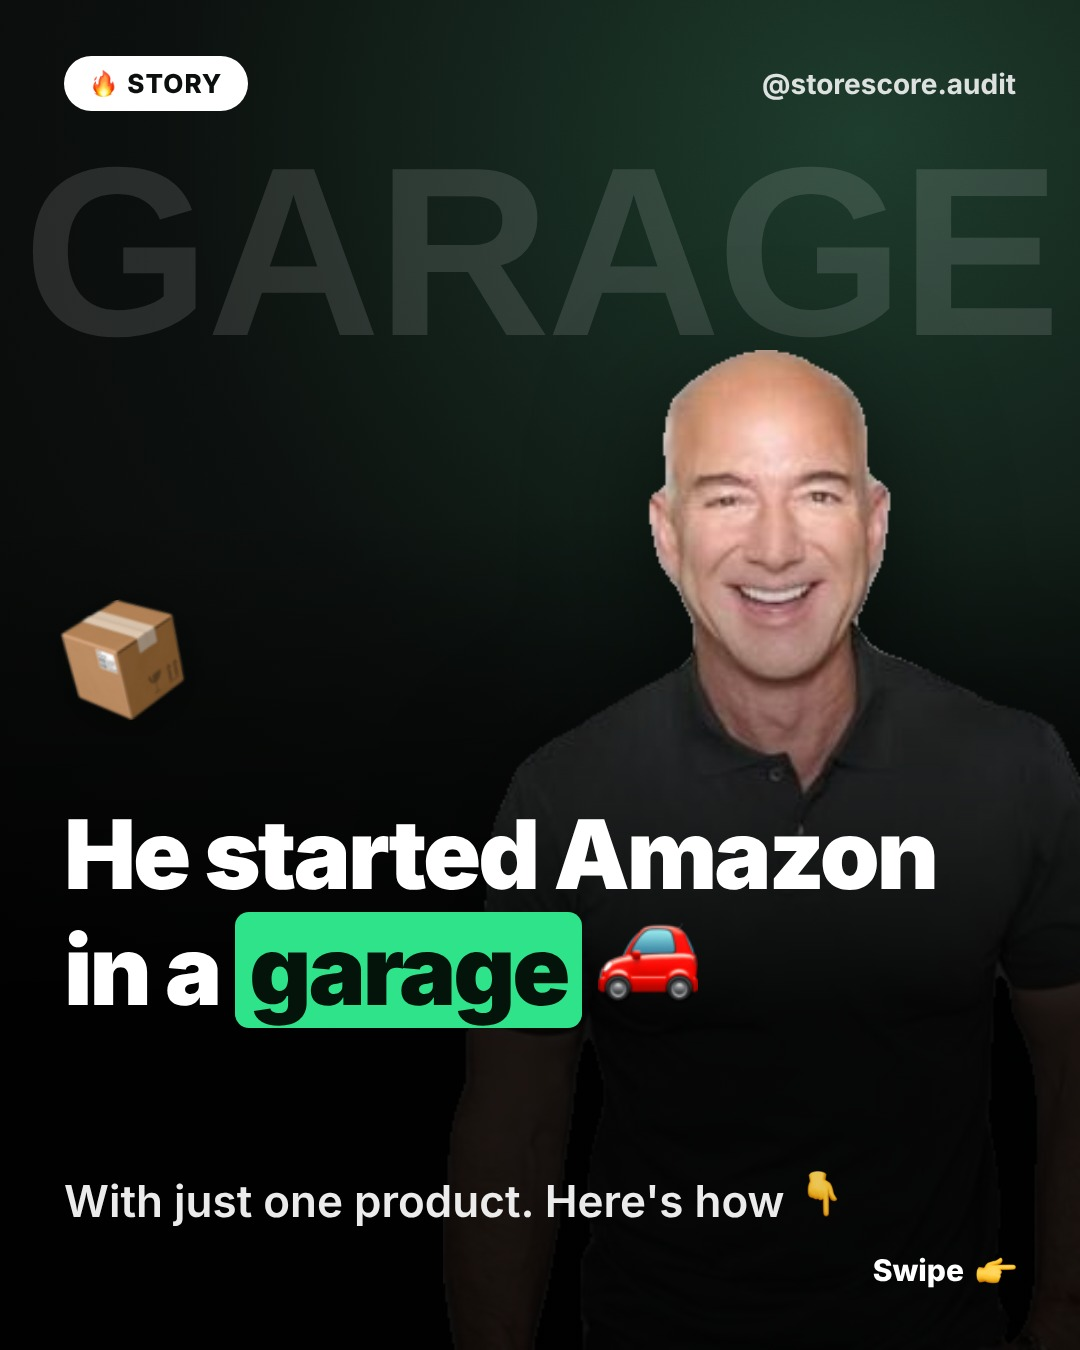
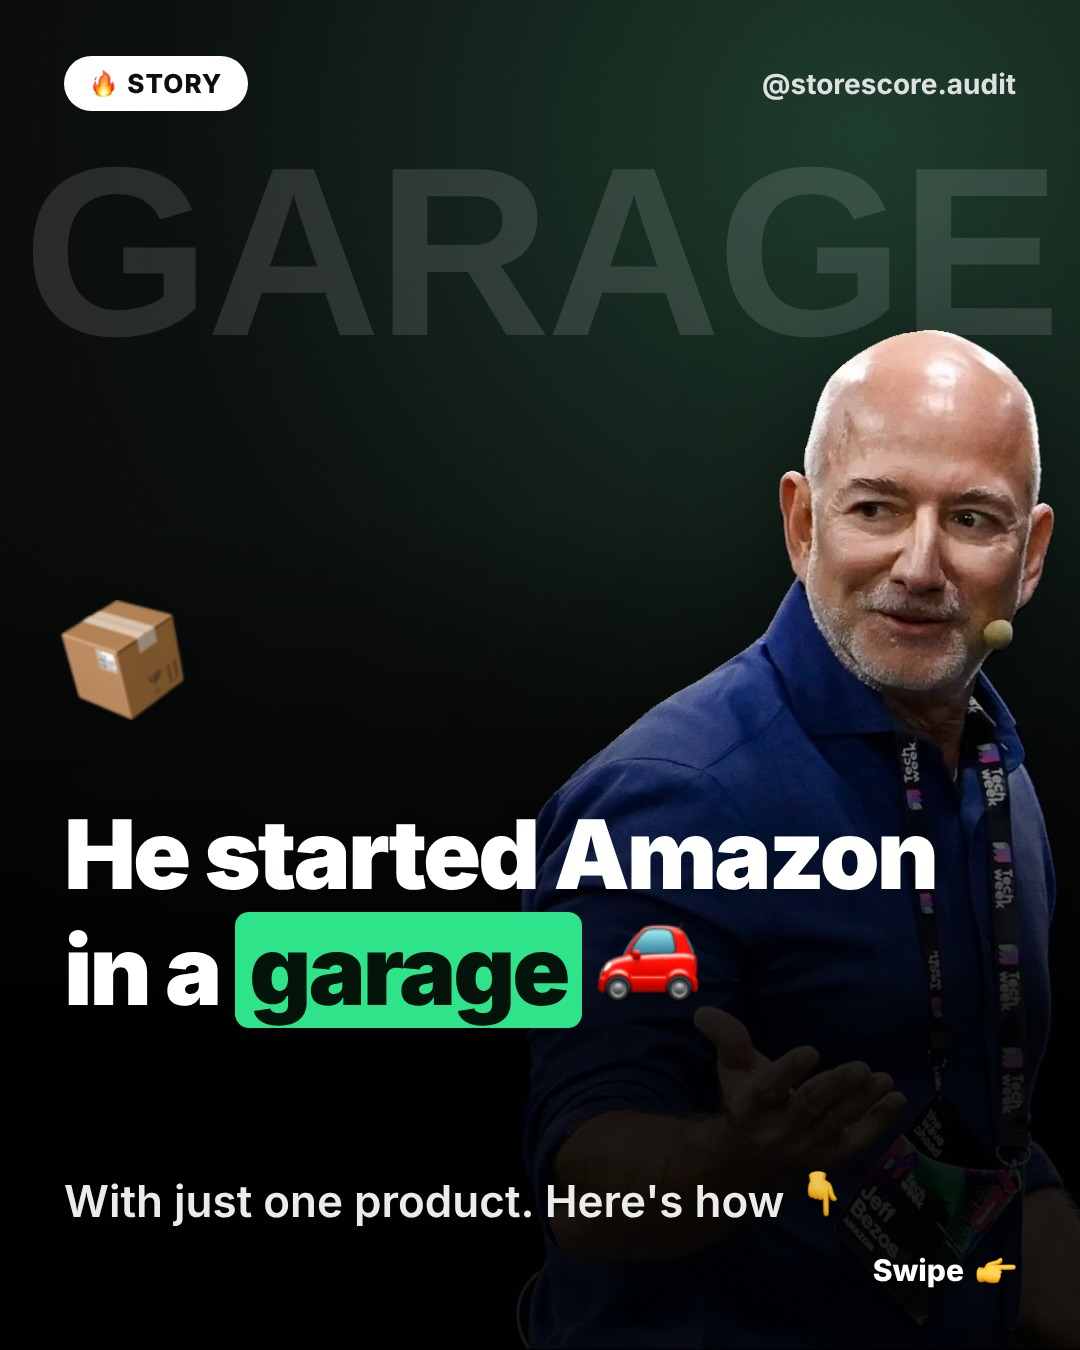
v4: détourage HD BiRefNet, slide citation, Bezos v001 refait
Claude-Session: https://claude.ai/code/session_019B7raebHSwcXNmJiFTuHgB

diff --git a/tools/v4.py b/tools/v4.py
@@ -97,6 +97,12 @@ def slide(s, i, n, lang):
         if s.get("num"): h += f'<div class="num" style="position:absolute;left:64px;top:190px;z-index:5">{s["num"]}</div>'
         h += f'<div class="title" style="top:{s.get("ty",470)}px;font-size:{s.get("fs",84)}px">{rich(s["title"])}</div>'
         if s.get("sub"): h += f'<div class="sub" style="top:{s.get("sy",900)}px">{rich(s["sub"])}</div>'
+    elif t == "quote":
+        if s.get("cutout"):
+            h += f'<img class="cut" src="{b64(s["cutout"])}" style="height:{s.get("cuth",820)}px;{s.get("cutpos","right:-60px")};z-index:2">'
+        h += '<div style="position:absolute;left:50px;top:120px;z-index:5;font:900 300px/1 Georgia,serif;color:#2fe38a">&ldquo;</div>'
+        h += f'<div class="title" style="top:{s.get("ty",380)}px;right:{s.get("tr",380)}px;font:italic 800 {s.get("fs",70)}px/1.12 Georgia,serif;letter-spacing:-1px">{rich(s["title"])}</div>'
+        h += f'<div class="sub" style="top:{s.get("sy",1000)}px;font:800 38px Inter;opacity:1">— {rich(s.get("author",""))}</div>'
     elif t == "cta":
         if s.get("cutout"):
             h += f'<img class="cut" src="{b64(s["cutout"])}" style="height:{s.get("cuth",700)}px;{s.get("cutpos","right:-40px")};opacity:.95">'

diff --git a/photos/README.md b/photos/README.md
@@ -1,4 +1,4 @@
 # Photos fournies par Neil (à utiliser pour les carrousels)
 - photos/lib/*.jpg : 63 photos nommées (musk-*, bezos-*, jobs-*, altman-*, gates, oprah, jordan, + lifestyle : villa-piscine, santorin-*, lambo-urus, ferrari-gclass, yacht, montre-or, bureau-*, salle-reunion, laptop-dashboard, shopping, signature, etc.)
-- photos/cutouts/*.png : personnalités détourées (fond transparent) → à utiliser en "cutout" sur la couverture et le CTA.
+- photos/cutouts/*.png : personnalités détourées en haute qualité (BiRefNet). photos/cutouts/petites/ = basse résolution, à n’utiliser qu’en petit (max 400 px de haut), jamais en couverture → à utiliser en "cutout" sur la couverture et le CTA.
 Règle : choisir l'image la plus pertinente pour le sujet ; ne jamais répéter la même couverture deux jours de suite.
